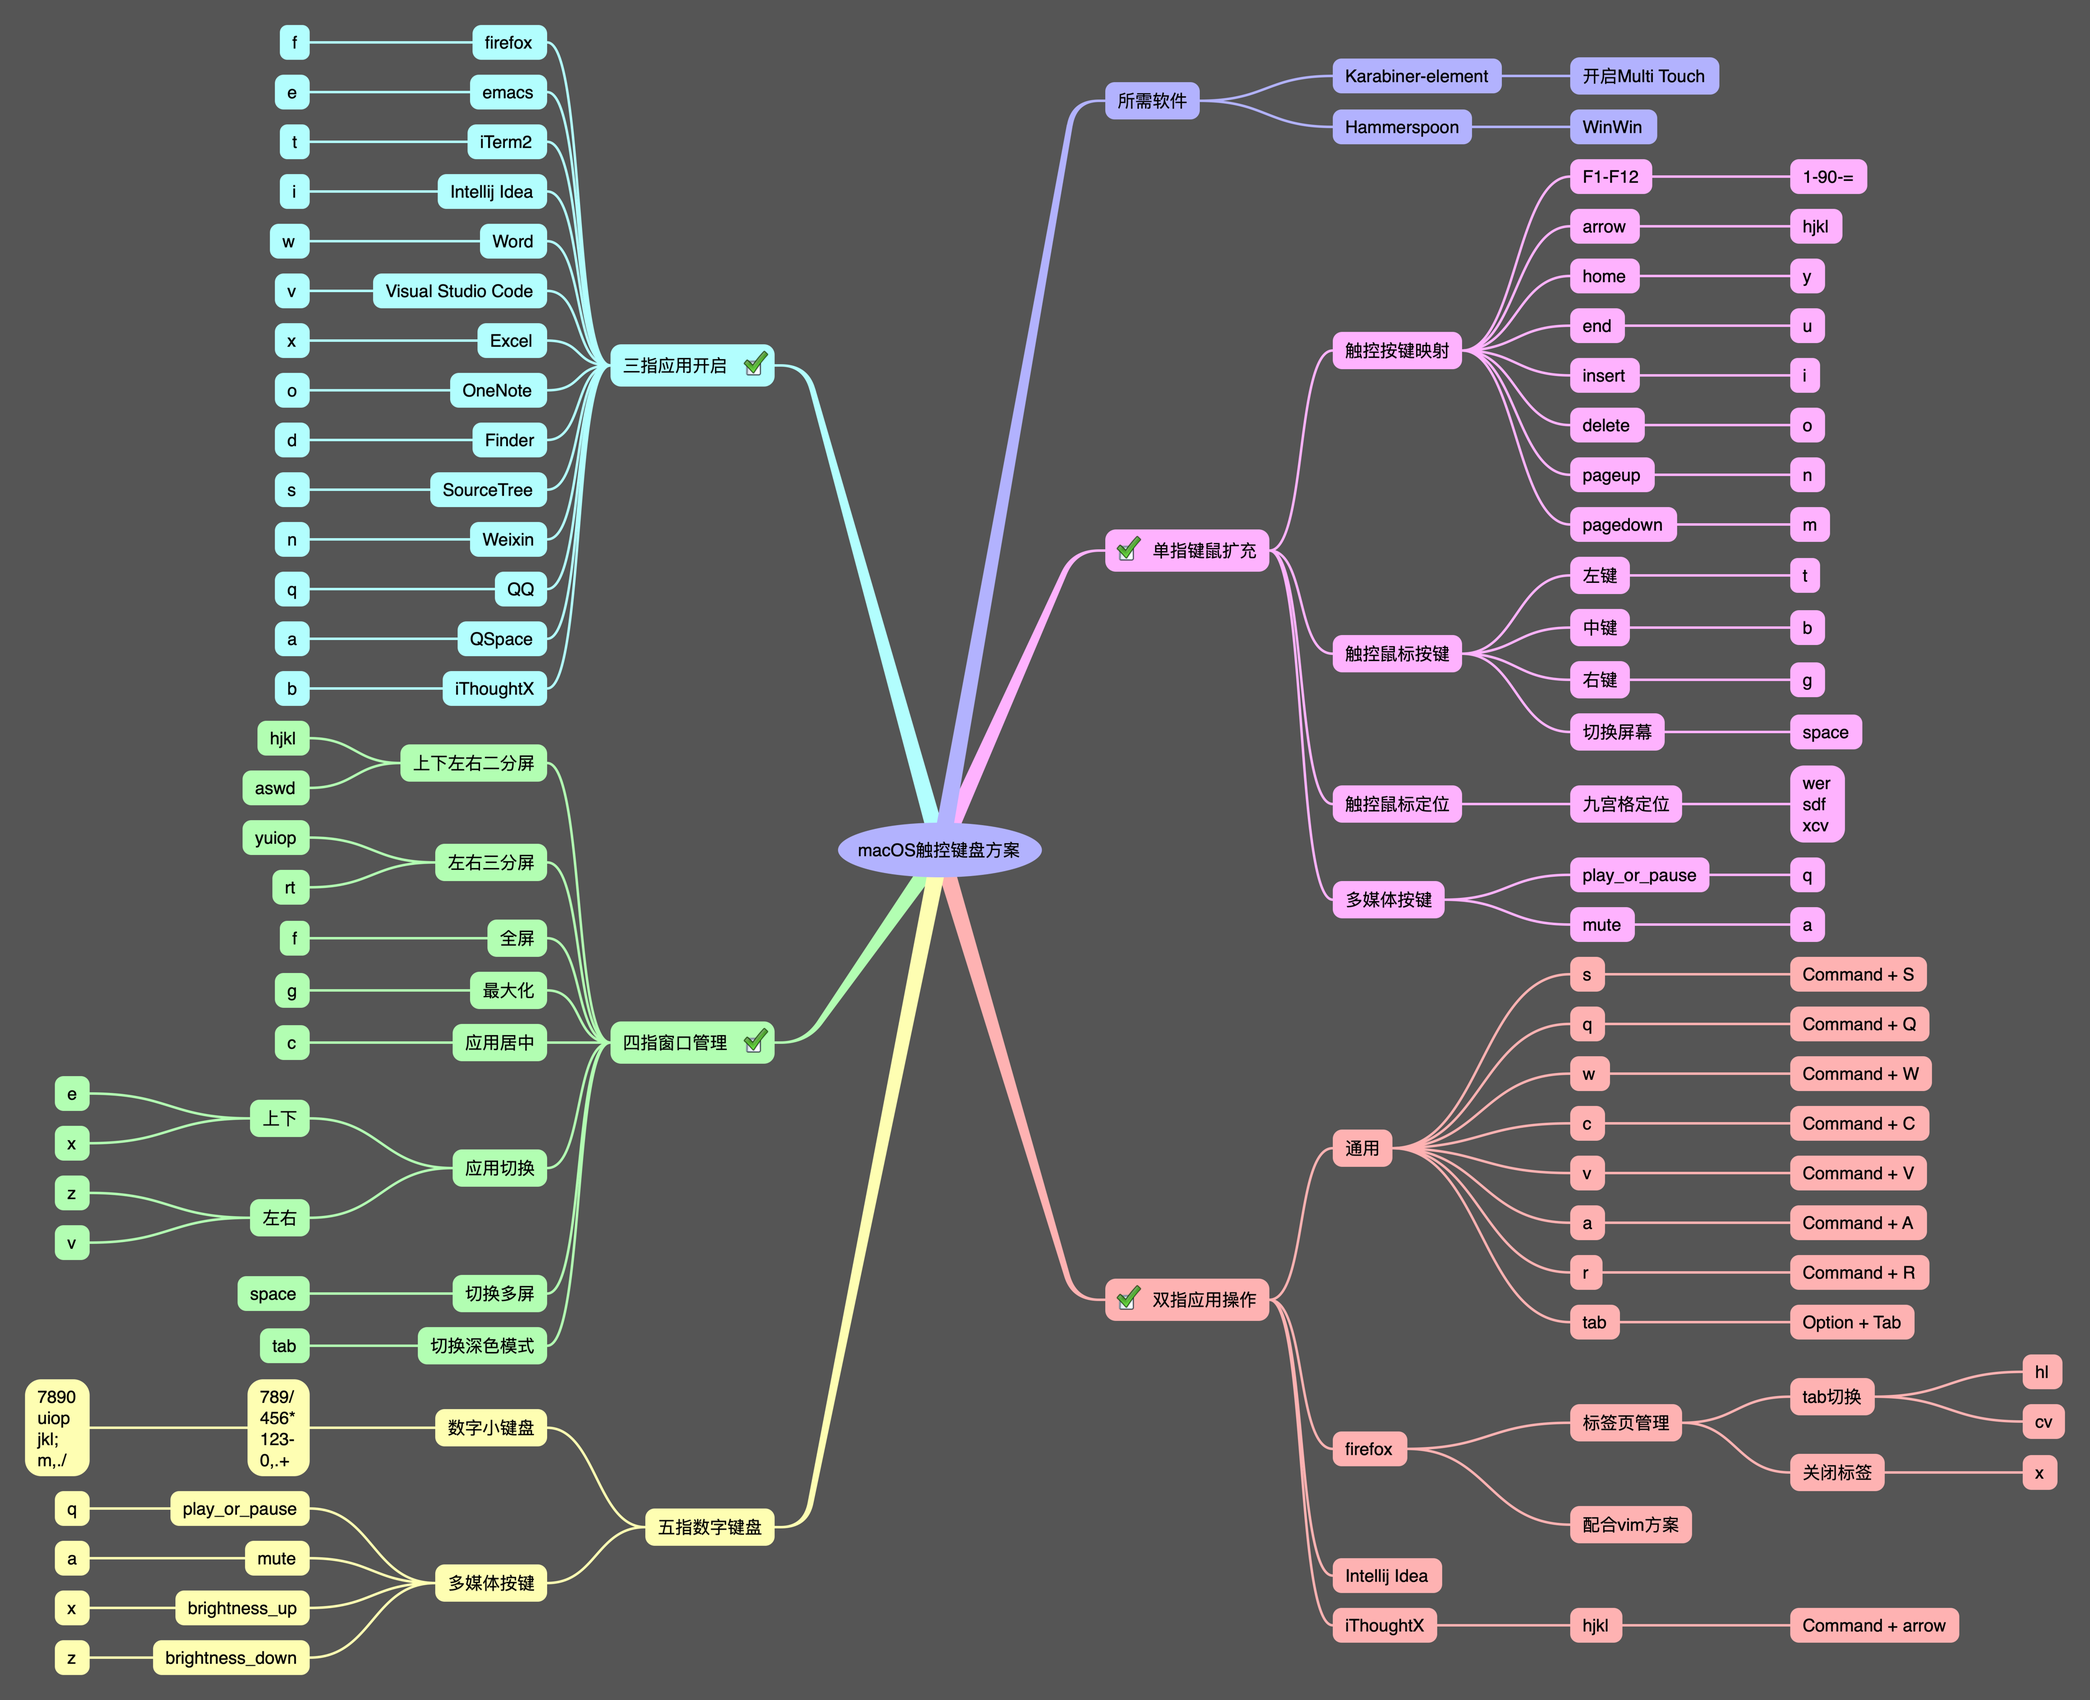
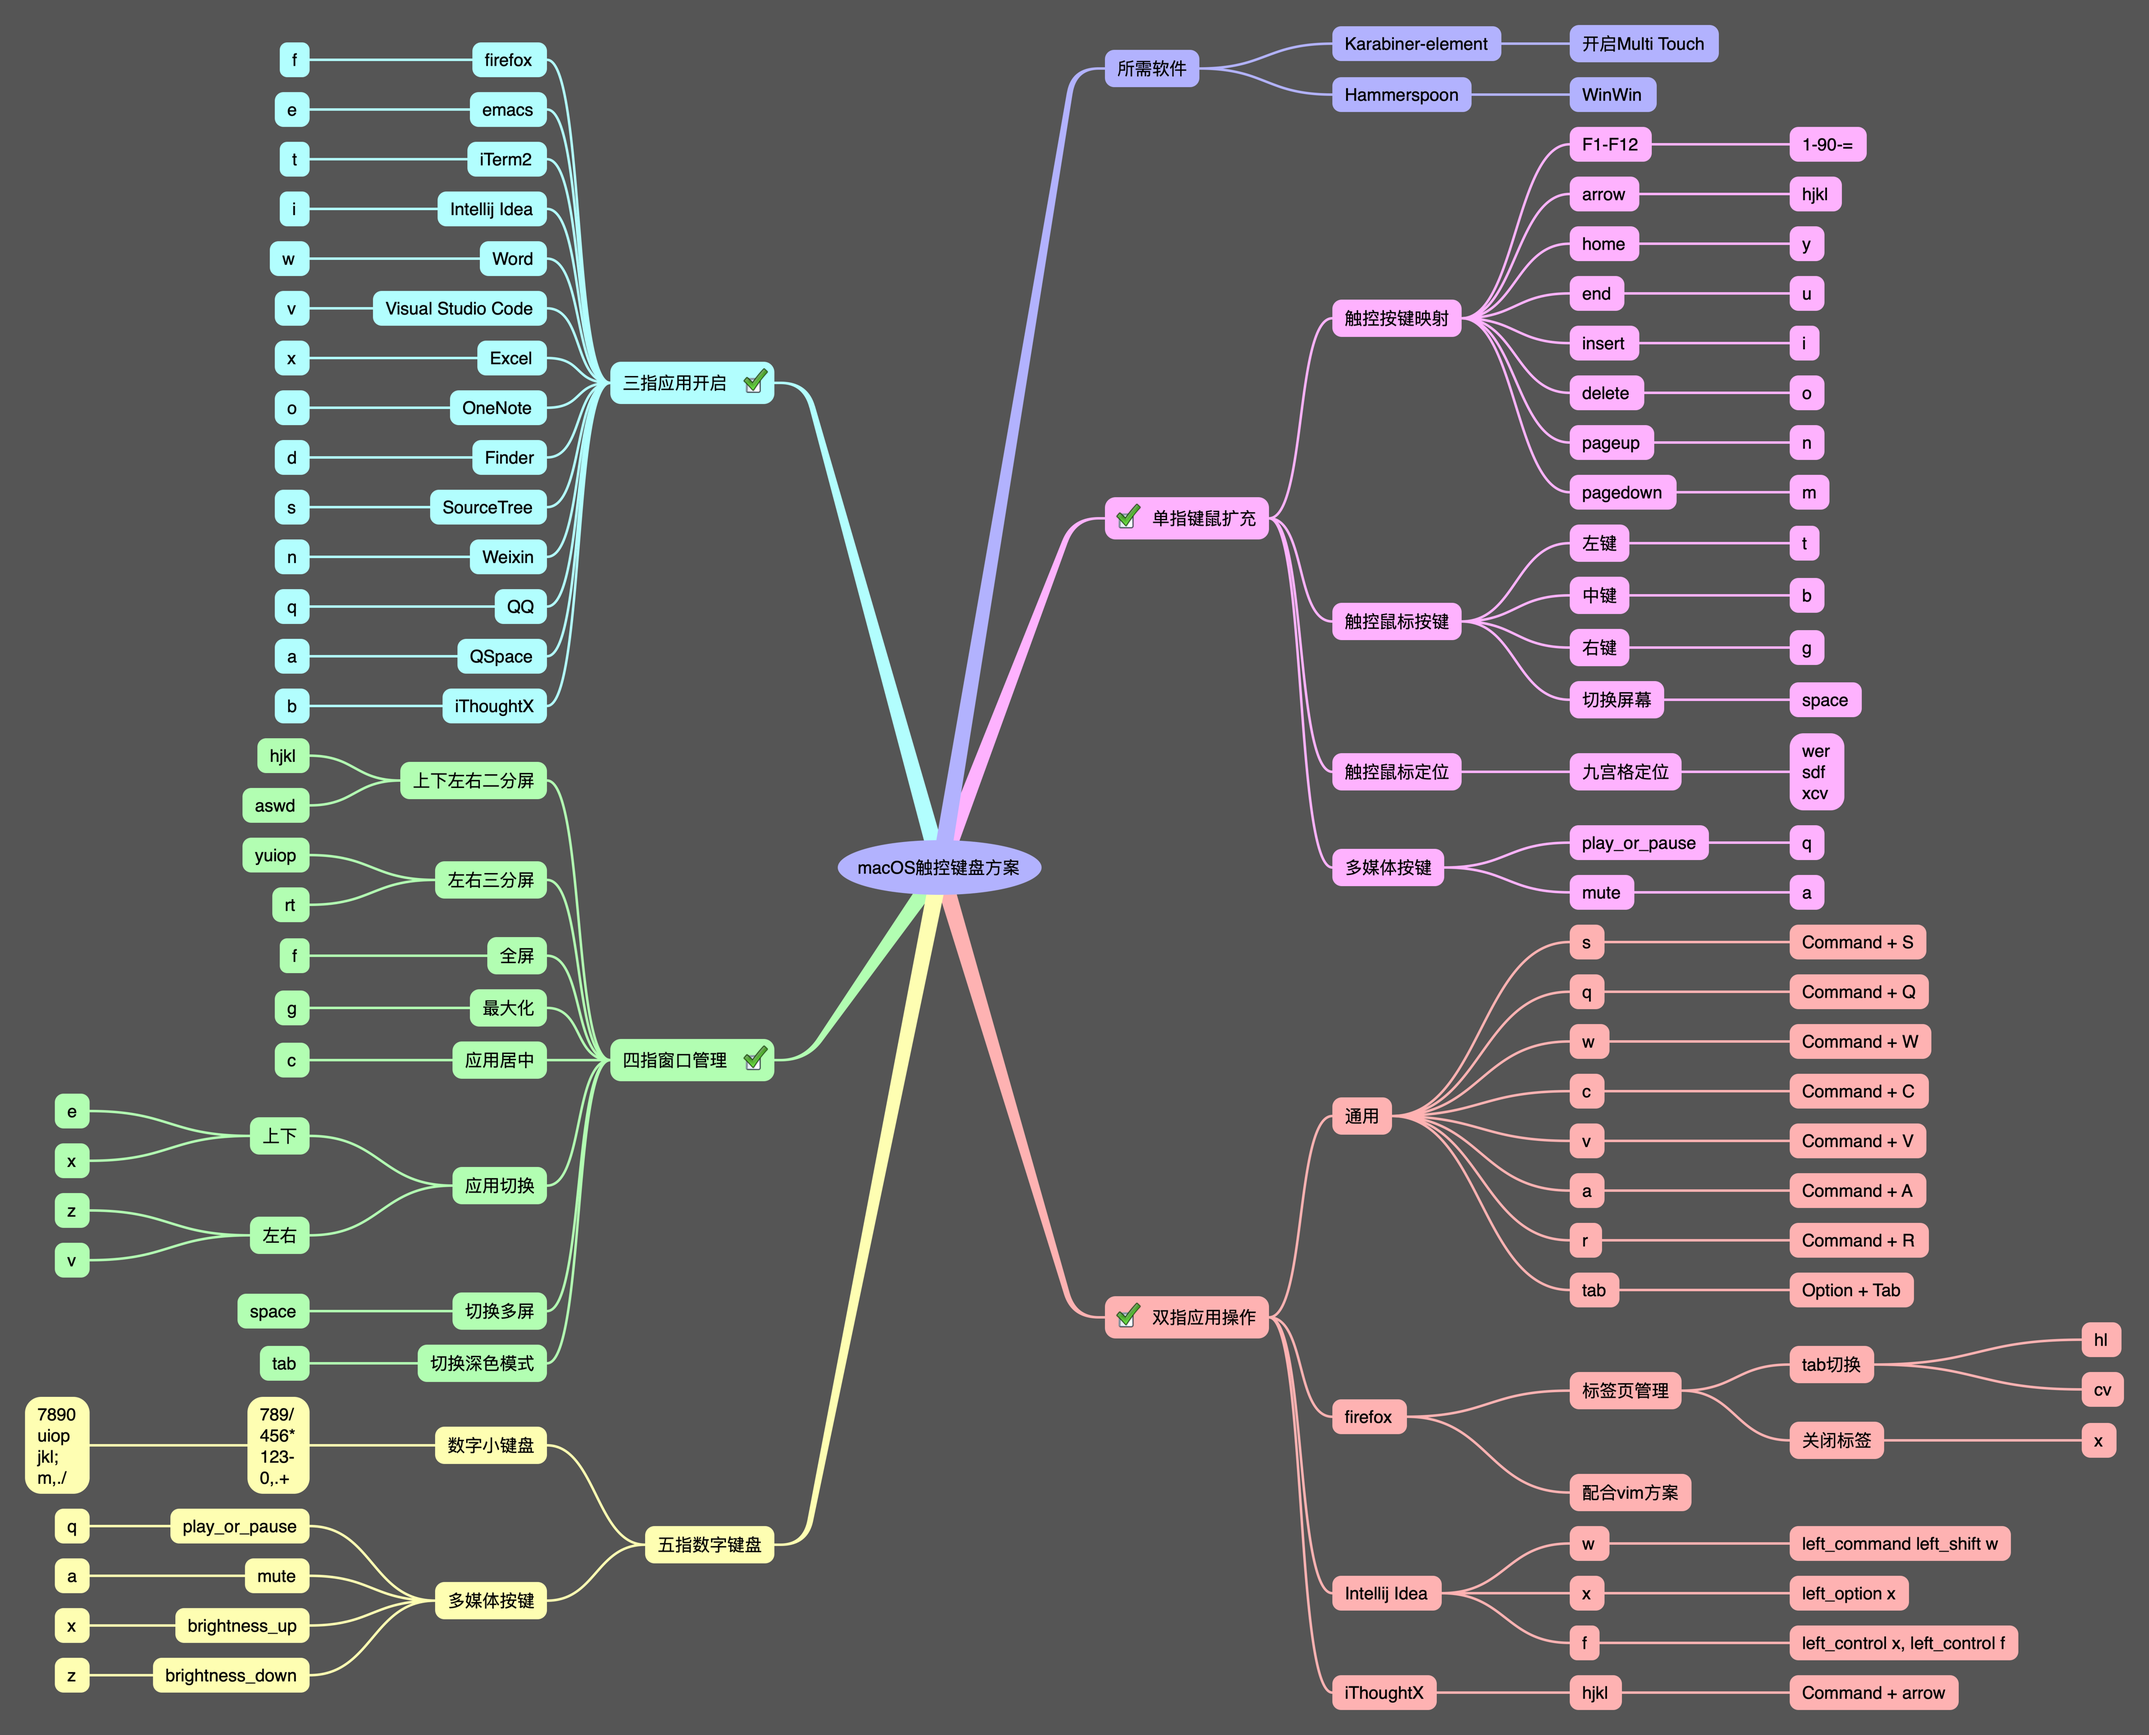
添加Multi_2_vscode模式，调整json生成脚本，支持键序列

Changed region(s): [[0.0, 0.0, 0.9994, 0.9942]]

diff --git a/src/makejson.py b/src/makejson.py
@@ -71,12 +71,15 @@ for sec in secs:
           })
       else:
         # key_code
-        tos = to.split(" ")
-        # print(tos[0:len(tos) - 1])
-        manTos.append({
-          "key_code": tos[len(tos) - 1],
-          "modifiers": tos[0:len(tos) - 1]
-        })
+        tos = to.split(",")
+        for to in tos:
+          keys = to.split(" ")
+          # print(tos[0:len(tos) - 1])
+          manTos.append({
+            "key_code": keys[len(keys) - 1],
+            "modifiers": keys[0:len(keys) - 1]
+          })
+
       manipulators.append({
             "type": "basic",
             "from": {
